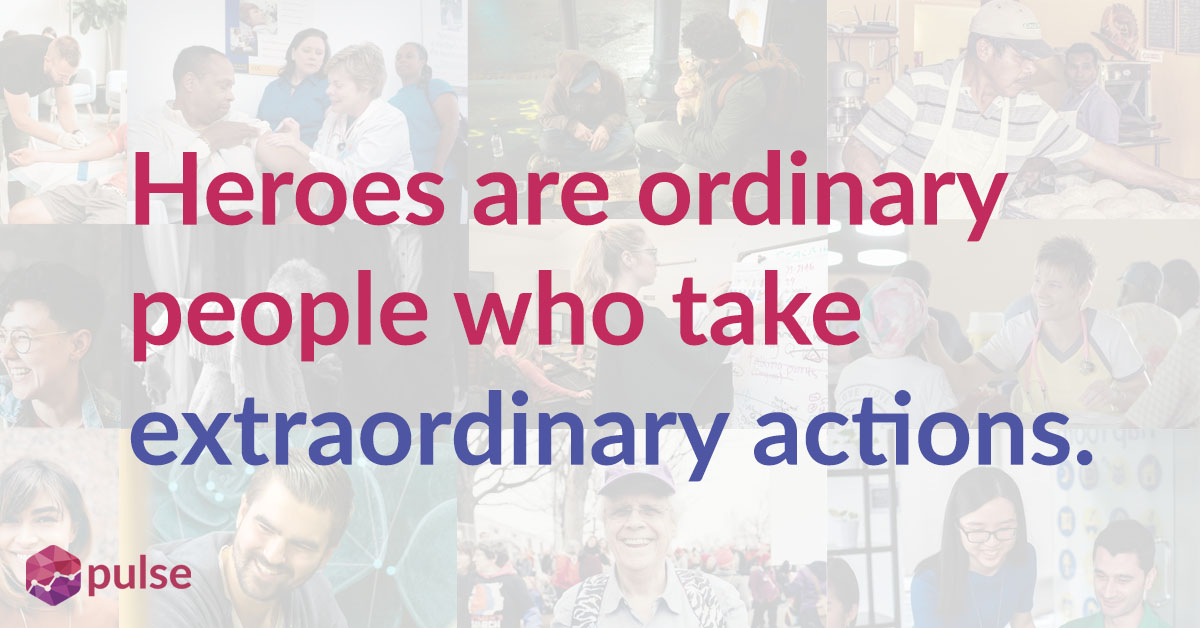
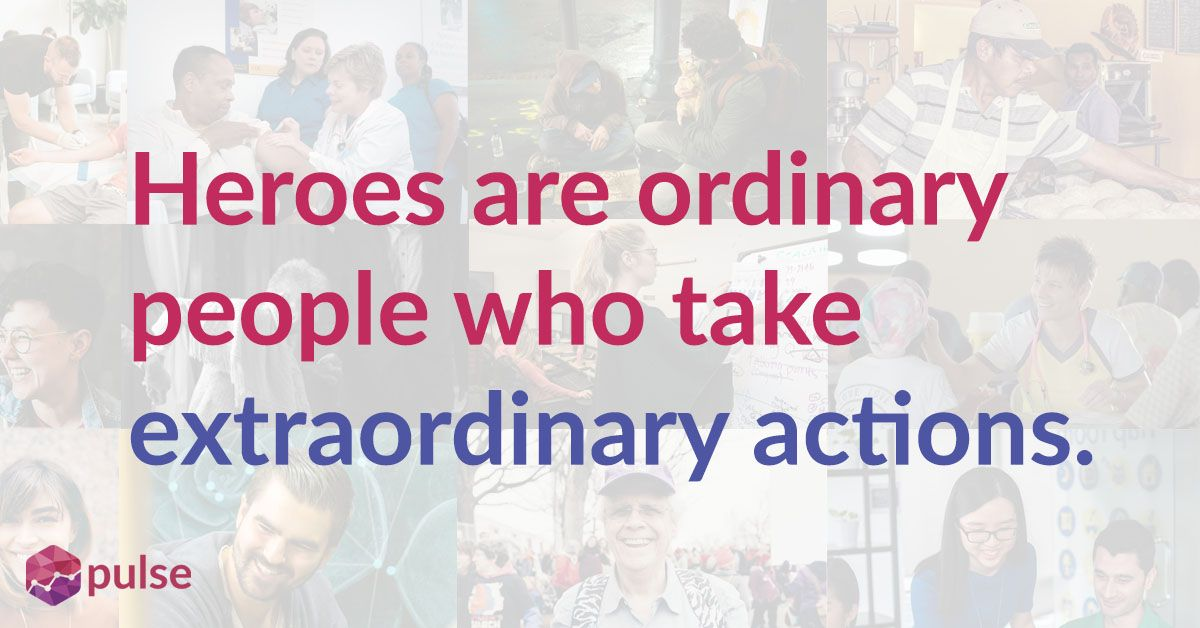
update hero image to be compressed

diff --git a/src/components/index-components/hero.js b/src/components/index-components/hero.js
@@ -16,7 +16,7 @@ const Hero = () => {
       <video className={style.responsiveVideo} controls poster={VideoCover}>
         
   <source src={OverviewVid} type="video/mp4"/>
-  <track src="../../videos/overviewCap.vtt" kind="captions" srclang="en" label="English"/>
+  <track src="../../videos/overviewCap.vtt" kind="captions" srcLang="en" label="English"/>
   Your browser does not support the video tag. Please view our video on Youtube @ Pulse For Good.
 </video>
       </div>
